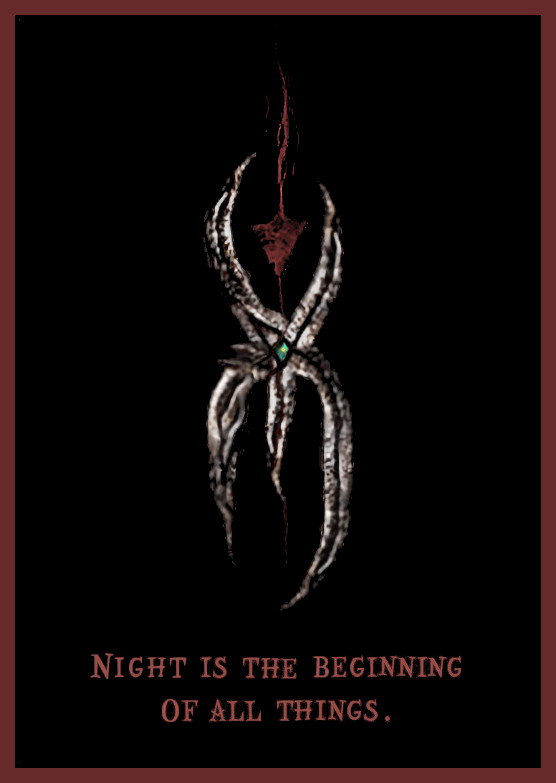
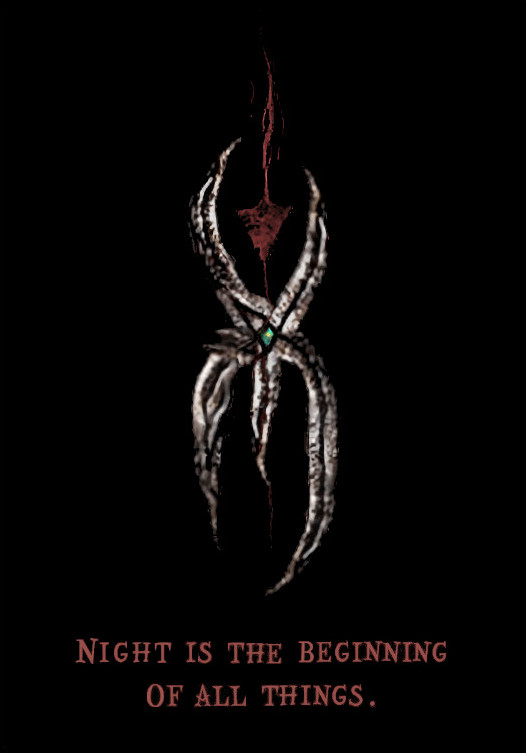
fix image frames

Changed region(s): [[0.0, 0.0, 1.0, 1.0], [0.365, 0.0611, 0.6388, 0.7942], [0.1521, 0.8247, 0.8517, 0.9469]]

diff --git a/styles.css b/styles.css
@@ -224,8 +224,8 @@ th, td {
 }
   .promo-graphics img {
     height: 400px;
-    padding: 1em 0;
-    border: 5px solid var(--blood);
+    padding: 0;
+    border: 10px solid var(--blood);
   }
 
 .suptext {
